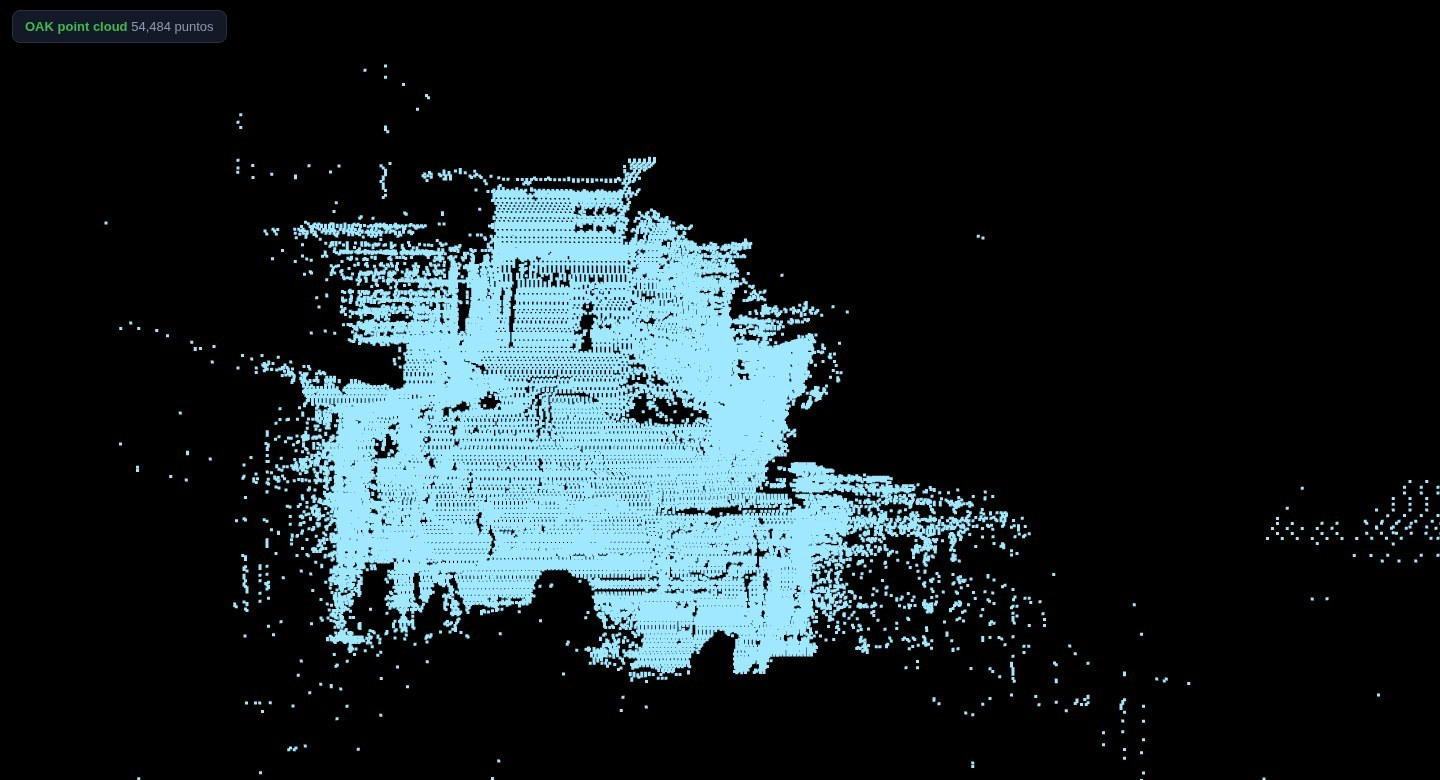
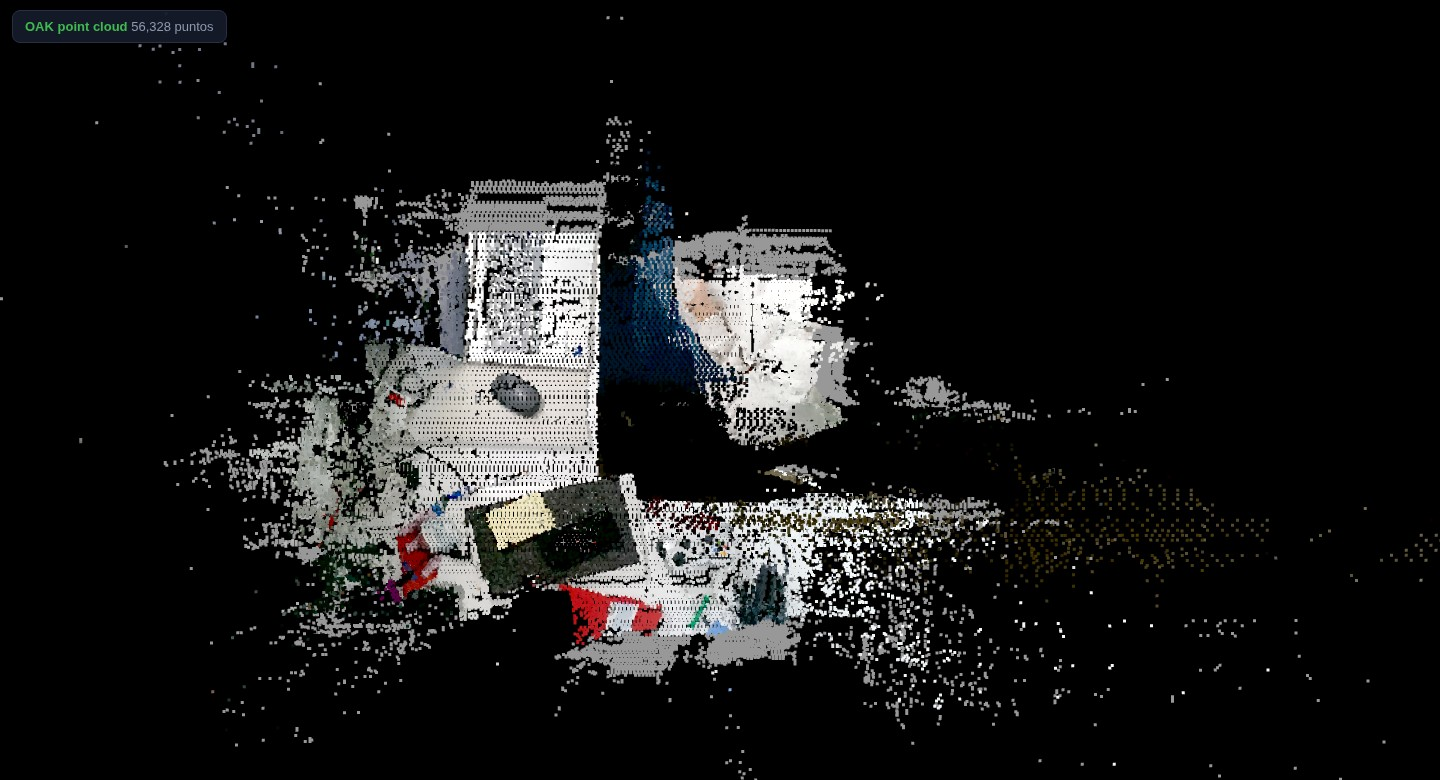
feat(cams): the point cloud now lives in the colour frame, coloured (§10.6)
Step 1 of the perception path: /oak/scene/points carries x,y,z,rgb in scene_color_optical_frame,
so a point and the pixel it came from are the same thing.

Built from the depth camera's K (unchanged), the device's depth->colour extrinsic and the colour
intrinsics at the stream's resolution, then the pixel's BGR goes into the rgb field. The board
homography would only be exact on its own plane, so the cloud uses the extrinsic route and the
homography stays for 2D overlays. Points outside the colour FOV keep their geometry in dim grey
rather than punching holes in the shape.

Two traps fixed on the way: depthai 2.x returns that translation in CENTIMETRES (3.719 -> 37.19 mm,
otherwise the cloud jumps 3.7 m), and the viewer's volume filter has to be applied to the colour
array as well or the colours slide off the points.

The Point Cloud tab reads rgb when the payload carries it and falls back to distance shading for an
uncalibrated unit. Verified on the bench: scene_color_optical_frame, fields at 0/4/8/12, ~2 Hz,
56k points, median range 1.11 m, colours on the objects.

diff --git a/docker/ws/cams/oak_ros_node.py b/docker/ws/cams/oak_ros_node.py
@@ -117,6 +117,34 @@ def create_cloud_xyz32(header, pts_m):
     return msg
 
 
+def create_cloud_xyzrgb(header, pts_m, rgb_u8):
+    """PointCloud2 with the PCL layout x,y,z,rgb (rgb packed into a float32).
+
+    Consumers (rviz, Open3D, open3d-style readers, GraspGen's converters) expect exactly this
+    offset order, so it is built by hand rather than depending on sensor_msgs_py.
+    """
+    msg = PointCloud2()
+    msg.header = header
+    msg.height = 1
+    msg.width = len(pts_m)
+    msg.fields = [
+        PointField(name="x", offset=0, datatype=PointField.FLOAT32, count=1),
+        PointField(name="y", offset=4, datatype=PointField.FLOAT32, count=1),
+        PointField(name="z", offset=8, datatype=PointField.FLOAT32, count=1),
+        PointField(name="rgb", offset=12, datatype=PointField.FLOAT32, count=1),
+    ]
+    msg.is_bigendian = False
+    msg.point_step = 16
+    msg.row_step = msg.point_step * msg.width
+    msg.is_dense = True
+    packed = np.zeros((len(pts_m), 4), dtype=np.float32)
+    packed[:, :3] = np.ascontiguousarray(pts_m, dtype=np.float32)
+    c = np.ascontiguousarray(rgb_u8, dtype=np.uint32)
+    packed[:, 3] = ((c[:, 0] << 16) | (c[:, 1] << 8) | c[:, 2]).view(np.float32)
+    msg.data = array.array("B", packed.astype("<f4").tobytes())
+    return msg
+
+
 def camera_info(fx, fy, cx, cy, w, h, frame_id):
     info = CameraInfo()
     info.width = w
@@ -172,6 +200,8 @@ class OakNode(Node):
                 "device": device,
                 "calib": calib,
                 "k_cache": {},
+                "color_bgr": None,
+                "colour_cache": {},
                 "pcl_last": 0.0,
                 "depth_last": 0.0,
                 "conf_last": 0.0,
@@ -237,6 +267,7 @@ class OakNode(Node):
             conf_frames = s["qconf"].tryGetAll()
             if color_frames:
                 frame = color_frames[-1].getCvFrame()
+                s["color_bgr"] = frame
                 ok, jpg = cv2.imencode(".jpg", frame, [int(cv2.IMWRITE_JPEG_QUALITY), 85])
                 if ok:
                     msg = CompressedImage()
@@ -347,12 +378,65 @@ class OakNode(Node):
             f"cx={k[2]:.2f} cy={k[3]:.2f}")
         return k
 
-    def _publish_cloud(self, s, depth, now):
-        """Host-side unprojection of the depth map.
+    def _colour_model(self, s, cw, ch):
+        """Colour intrinsics at the frame size, plus the depth→colour extrinsic, cached.
 
-        The map is 16UC1 in millimetres — a depth of 1000 is one metre — which is what
-        the stereo pipeline gives when the unit has a usable calibration; the scale env
-        var exists only to correct a unit whose depth comes out proportional."""
+        The cloud is built on the depth camera's geometry, but colour has to come from a pixel
+        of the *colour* camera: the device's own extrinsic is the exact relation between the two
+        sensors, so the board homography of §10.4 (a plane approximation) is not needed here.
+        Returns None when the unit has no usable calibration, in which case the cloud stays
+        uncoloured in the depth frame instead of being coloured wrongly.
+        """
+        key = (cw, ch)
+        cache = s["colour_cache"]
+        if key in cache:
+            return cache[key]
+        model = None
+        calib = s.get("calib")
+        if calib is not None:
+            try:
+                raw = calib.getCameraIntrinsics(dai.CameraBoardSocket.RGB, cw, ch)
+                k = (float(raw[0][0]), float(raw[1][1]), float(raw[0][2]), float(raw[1][2]))
+            except Exception:  # noqa: BLE001
+                k = None
+            if k and k[0] > 0:
+                try:
+                    m = np.array(calib.getCameraExtrinsics(dai.CameraBoardSocket.RIGHT,
+                                                           dai.CameraBoardSocket.RGB),
+                                 dtype=float)
+                except Exception:  # noqa: BLE001
+                    m = None
+                if m is not None:
+                    if m.shape == (4, 4):
+                        R, t = m[:3, :3], m[:3, 3]
+                    elif m.shape == (3, 4):
+                        R, t = m[:, :3], m[:, 3]
+                    else:
+                        R = t = None
+                    if R is not None:
+                        # depthai 2.x returns this translation in CENTIMETRES (the legacy
+                        # convention); the cloud is in metres, so 3.719 becomes 37.19 mm.
+                        t = np.asarray(t, dtype=float) * 0.01
+                        model = (k, R, t)
+                        self.get_logger().info(
+                            f"{s['ns']}: cloud colour model {cw}x{ch} fx={k[0]:.2f} "
+                            f"cx={k[2]:.2f} | depth→colour t=({t[0] * 1000:.1f}, "
+                            f"{t[1] * 1000:.1f}, {t[2] * 1000:.1f}) mm")
+        cache[key] = model
+        return model
+
+    def _publish_cloud(self, s, depth, now):
+        """Unproject the depth map, then colour every point from the colour camera.
+
+        Geometry is built on the depth camera's own K (the map arrives in the right camera's
+        geometry), moved into the colour camera's frame with the device extrinsic, and
+        projected with the colour K to fetch the pixel. The result is published in the *colour*
+        optical frame with the PCL `x, y, z, rgb` layout, so a cloud point and its pixel are the
+        same thing — the step that turns "the camera sees" into "the object is there".
+
+        Points that fall outside the colour image keep their geometry but are coloured dim grey,
+        because dropping them would leave holes in the shape a grasp is aimed at.
+        """
         ns = s["ns"]
         env = f"OAK_{ns.upper()}"
         h, w = depth.shape
@@ -367,12 +451,36 @@ class OakNode(Node):
         x = (uu - cx) * z / fx
         y = (vv - cy) * z / fy
         pts = np.stack([x[valid], y[valid], z[valid]], axis=1)
-        if len(pts):
-            header = Header()
-            header.stamp = self.get_clock().now().to_msg()
+        if not len(pts):
+            return
+
+        header = Header()
+        header.stamp = self.get_clock().now().to_msg()
+        colour = s.get("color_bgr")
+        model = self._colour_model(s, colour.shape[1], colour.shape[0]) if colour is not None else None
+        if model is None:
             header.frame_id = f"{ns}_right_optical_frame"
             self._pub(f"/oak/{ns}/points", PointCloud2).publish(create_cloud_xyz32(header, pts))
             s["pcl_last"] = now
+            return
+
+        (kfx, kfy, kcx, kcy), R, t = model
+        p = pts @ R.T + t
+        zc = p[:, 2]
+        rgb = np.full((len(p), 3), 80, dtype=np.uint8)
+        front = zc > 0.05
+        if front.any():
+            u = kfx * p[front, 0] / zc[front] + kcx
+            v = kfy * p[front, 1] / zc[front] + kcy
+            ch, cw = colour.shape[:2]
+            inside = (u >= 0) & (u < cw - 1) & (v >= 0) & (v < ch - 1)
+            idx = np.flatnonzero(front)[inside]
+            if len(idx):
+                bgr = colour[v[inside].astype(np.int32), u[inside].astype(np.int32)]
+                rgb[idx] = bgr[:, ::-1]          # BGR -> RGB
+        header.frame_id = f"{ns}_color_optical_frame"
+        self._pub(f"/oak/{ns}/points", PointCloud2).publish(create_cloud_xyzrgb(header, p, rgb))
+        s["pcl_last"] = now
 
     def _pub(self, topic, cls):
         pub = getattr(self, "_pubcache", None)

diff --git a/docker/ws/cams/cloud_view.py b/docker/ws/cams/cloud_view.py
@@ -5,7 +5,7 @@ a laptop. This serves the newest cloud as a compact binary over plain HTTP and a
 three.js page that renders it:
 
     http://<jetson-ip>:8091/          interactive 3D view
-    http://<jetson-ip>:8091/cloud.bin  uint32 count + float32 x,y,z per point
+    http://<jetson-ip>:8091/cloud.bin  uint32 count + float32 x,y,z + uint8 r,g,b per point
 
 The cloud is downsampled with a stride (default: keep every 3rd point) so a
 720p cloud stays interactive over WiFi. Colour is derived from distance in the
@@ -51,16 +51,32 @@ class CloudViewer(Node):
         usable = (len(raw) // step) * step
         pts = np.frombuffer(raw[:usable].tobytes(), dtype=np.float32)
         per = step // 4
-        pts = pts.reshape(-1, per)[:, :3]
-        pts = pts[::STRIDE]
-        pts = pts[np.isfinite(pts).all(axis=1)]
+        arr = pts.reshape(-1, per)
+        pts = arr[:, :3]
+        has_rgb = "rgb" in fields and per >= 4
+        rgb = None
+        if has_rgb:
+            packed = np.ascontiguousarray(arr[:, fields["rgb"] // 4]).view(np.uint32)
+            rgb = np.stack([(packed >> 16) & 0xFF, (packed >> 8) & 0xFF, packed & 0xFF],
+                           axis=1).astype(np.uint8)
+        keep = np.isfinite(pts).all(axis=1)
+        pts = pts[keep]
+        if rgb is not None:
+            rgb = rgb[keep]
         # keep the working volume only: the OAK frame is optical (z forward), and the
         # far/noisy points stretch the bounding box until the cloud renders as dust
-        pts = pts[(pts[:, 2] > 0.12) & (pts[:, 2] < 2.5)
-                  & (np.abs(pts[:, 0]) < 1.5) & (np.abs(pts[:, 1]) < 1.5)]
+        vol = ((pts[:, 2] > 0.12) & (pts[:, 2] < 2.5)
+               & (np.abs(pts[:, 0]) < 1.5) & (np.abs(pts[:, 1]) < 1.5))
+        pts = pts[vol]
+        if rgb is not None:                 # same mask on both, or the colours slide off
+            rgb = rgb[vol]
         if len(pts) == 0:
             return
-        payload = struct.pack("<I", len(pts)) + pts.astype("<f4").tobytes()
+        pts = pts[::STRIDE]
+        if rgb is not None:
+            rgb = rgb[::STRIDE]
+        payload = (struct.pack("<I", len(pts)) + pts.astype("<f4").tobytes()
+                   + (rgb.tobytes() if rgb is not None else b""))
         with _lock:
             _state.update(bin=payload, n=len(pts), stamp=time.time())
             _count["n"] += 1
@@ -122,7 +138,8 @@ function makeGeom(n){
   geom = new THREE.BufferGeometry();
   geom.setAttribute('position', new THREE.BufferAttribute(new Float32Array(n*3), 3));
   geom.setAttribute('color', new THREE.BufferAttribute(new Float32Array(n*3), 3));
-  const mat = new THREE.PointsMaterial({size:3.0, color:0x9fe8ff, sizeAttenuation:false});
+  const mat = new THREE.PointsMaterial({size:3.0, color:0xffffff, vertexColors:true,
+                                        sizeAttenuation:false});
   if (pts) scene.remove(pts);
   pts = new THREE.Points(geom, mat);
   scene.add(pts);
@@ -136,26 +153,36 @@ async function tick(){
       const n = dv.getUint32(0, true);
       if (!geom || geom.attributes.position.count !== n) makeGeom(n);
       const pos = geom.attributes.position.array, col = geom.attributes.color.array;
-      // two passes: read positions, then colour by distance from the cloud centre
-      // normalised to this frame, so contrast does not depend on scale
+      const hasRGB = buf.byteLength >= 4 + n*15;      // xyz float32 + rgb uint8 per point
       let cx=0, cy=0, cz=0;
       for (let i=0;i<n;i++){
-        const x = dv.getFloat32(4+i*12, true), y = dv.getFloat32(8+i*12, true), z = dv.getFloat32(12+i*12, true);
+        const o = 4 + i*12;
+        const x = dv.getFloat32(o, true), y = dv.getFloat32(o+4, true), z = dv.getFloat32(o+8, true);
         pos[i*3]=x; pos[i*3+1]=y; pos[i*3+2]=z; cx+=x; cy+=y; cz+=z;
       }
       cx/=n; cy/=n; cz/=n;
-      let dmin=1e9, dmax=1e-9;
-      for (let i=0;i<n;i++){
-        const d = Math.hypot(pos[i*3]-cx, pos[i*3+1]-cy, pos[i*3+2]-cz);
-        if (d<dmin) dmin=d; if (d>dmax) dmax=d;
-      }
-      const span = Math.max(1e-3, dmax-dmin);
-      for (let i=0;i<n;i++){
-        const t = (Math.hypot(pos[i*3]-cx, pos[i*3+1]-cy, pos[i*3+2]-cz) - dmin)/span;
-        // bright enough to read against the near-black background: pale cyan -> warm
-        col[i*3]   = 0.55 + 0.45*t;
-        col[i*3+1] = 0.88 + 0.12*Math.sin(t*Math.PI);
-        col[i*3+2] = 1.00 - 0.55*t;
+      if (hasRGB){
+        // the pixel's own colour, straight from the colour camera
+        const base = 4 + n*12;
+        for (let i=0;i<n;i++){
+          col[i*3]   = dv.getUint8(base + i*3)     / 255;
+          col[i*3+1] = dv.getUint8(base + i*3 + 1) / 255;
+          col[i*3+2] = dv.getUint8(base + i*3 + 2) / 255;
+        }
+      } else {
+        // fallback for an uncalibrated unit: distance shading, cyan -> warm
+        let dmin=1e9, dmax=1e-9;
+        for (let i=0;i<n;i++){
+          const d = Math.hypot(pos[i*3]-cx, pos[i*3+1]-cy, pos[i*3+2]-cz);
+          if (d<dmin) dmin=d; if (d>dmax) dmax=d;
+        }
+        const span = Math.max(1e-3, dmax-dmin);
+        for (let i=0;i<n;i++){
+          const t = (Math.hypot(pos[i*3]-cx, pos[i*3+1]-cy, pos[i*3+2]-cz) - dmin)/span;
+          col[i*3]   = 0.55 + 0.45*t;
+          col[i*3+1] = 0.88 + 0.12*Math.sin(t*Math.PI);
+          col[i*3+2] = 1.00 - 0.55*t;
+        }
       }
       geom.attributes.position.needsUpdate = true;
       geom.attributes.color.needsUpdate = true;

diff --git a/README.md b/README.md
@@ -45,6 +45,7 @@ A Windows 11 Home PC on the same LAN provides visualization (noVNC in Chromium),
   - [10.3 Hand-eye — where the camera sits in the arm's frame](#103-hand-eye--where-the-camera-sits-in-the-arms-frame)
   - [10.4 Depth scale, and colour to depth registration](#104-depth-scale-and-colour-to-depth-registration)
   - [10.5 The gripper camera — is it in focus at 10-15 cm?](#105-the-gripper-camera--is-it-in-focus-at-10-15-cm)
+  - [10.6 The cloud in the colour frame, coloured](#106-the-cloud-in-the-colour-frame-coloured)
 - **[11. Node and topic reference](#11-node-and-topic-reference)**
   - [11.1 so100-arm — the arm](#111-so100-arm--the-arm)
   - [11.2 so100-cams — the cameras](#112-so100-cams--the-cameras)
@@ -98,9 +99,10 @@ seen working on this hardware, so trust it over the plan when they disagree.
 - [x] Point cloud: unprojected with the depth camera's own intrinsics, extended disparity (range from ~0.65 m down to ~0.33 m), left/right check; scale measured at 0.315 m against PnP geometry — depth reads **+3.0%**, spread ±1% over 100k board pixels
 - [x] Colour ↔ depth **registration**: homography from the board, 48 correspondences, 0.69 px rms — `docs/calibration/color_to_depth.yaml`
 
+- [x] **Point cloud in the colour frame, coloured** — `/oak/scene/points` carries `x, y, z, rgb` in `scene_color_optical_frame`, built from the device's depth→colour extrinsic and the colour intrinsics (§10.6). Verified on the bench 2026-11-11: 56k points at ~2 Hz, colours on the objects. Unblocks object segmentation in 3D, GraspGen targets and VLM pointing
+
 ### 2.3 Next
 
-- [ ] **Point cloud in the colour frame, coloured** — publish `/oak/scene/points` already transformed into the colour optical frame and carrying the pixel's RGB, so a cloud point and its pixel are the same thing. The homography that makes this possible is solved and unused; this is the step that turns "the camera sees" into "the object is *there*", and it is what lets a grasp be aimed at a segmented object instead of a hand-picked 3D guess. Unblocks: object segmentation in 3D, GraspGen targets, VLM pointing.
 - [ ] **The arm's silhouette in the cloud** — the SO-101's black plastic returns no depth, so the arm is a hole at the near edge of the cloud instead of a body (visible as the dark blob at the bottom of the Point Cloud tab). Project the URDF links through the same intrinsics the cloud is unprojected with — the transform is invertible, so this is a mask, not a second pipeline — and either mark the missing points or draw the model over the cloud. It is what lets the operator see where the arm sits relative to the objects, and the same mask is what a grasp planner needs to reject points that are the robot and not the scene.
 - [ ] **Depth scale, second distance** — repeat the PnP-vs-depth check at ~0.40 m to tell a proportional error from a fixed offset, then decide whether `OAK_SCENE_DEPTH_SCALE` becomes 0.971 or stays 1.0
 - [ ] **IK node (ADR-0009)** — SE(3) pose to joint angles, with the URDF limits; the missing middle between "the gripper is here" (FK, done) and "move the gripper there". Unblocks GraspGen, the VLM interface and autonomous episodes
@@ -376,7 +378,7 @@ One page at **http://<xavier-ip>/** with five tabs, served by the `so100-web` co
 |---|---|---|
 | **Terminal** | http://192.168.1.50:7681 | a writable shell **inside the web container**, with the ROS2 environment sourced — the first tab, because it is the cheap one |
 | **Stereo Cam & Depth** | http://192.168.1.50:8090/stereo | the two **rectified** mono views (LEFT · CAM_B, RIGHT · CAM_C) — exactly the images the depth map is computed from, each with its own rate — and, below them, the **depth map** (0–2 m, turbo colormap) |
-| **Point Cloud** | http://192.168.1.50:8091/ | the `/oak/scene/points` cloud in 3D (three.js): opens as a **zenithal view of the arm and the bench** — straight down the camera's optical axis — then drag to orbit, wheel to zoom, colour = distance from the cloud centre |
+| **Point Cloud** | http://192.168.1.50:8091/ | the `/oak/scene/points` cloud in 3D (three.js): opens as a **zenithal view of the arm and the bench** — straight down the camera's optical axis — then drag to orbit, wheel to zoom, **each point in the colour the camera saw there** |
 | **Graph** | http://192.168.1.50:6081/vnc.html | rqt_graph: every node/topic in the cell and how they connect |
 | **RViz** | http://192.168.1.50:6080/vnc.html | RViz2: the SO-101 arm with its live pose, the grid, TF and the colour/confidence panels. **Started on demand** — see below |
 
@@ -723,8 +725,8 @@ repeated at ~0.40 m (§2.3).
 
 **Registration.** Colour and depth sensors are 37 mm apart, so a pixel is not a pixel. The
 homography from the board — 48 correspondences, 0.69 px rms — lives in
-`docs/calibration/color_to_depth.yaml`. It is solved and **not used yet**: the cloud is still
-uncoloured, which is the first item in §2.3.
+`docs/calibration/color_to_depth.yaml`. It stays the right tool for 2D overlays (drawing a depth
+contour on the colour image); the cloud itself is coloured by a different, exact route — §10.6.
 
 ### 10.5 The gripper camera — is it in focus at 10-15 cm?
 
@@ -805,6 +807,40 @@ not because the exposure changed.
   wrist distance). That is why the 10-15 cm requirement is written as a *focus* requirement here,
   not as a depth range — and why `tools/camfocus.py` runs before the camera goes on the arm.
 
+### 10.6 The cloud in the colour frame, coloured
+
+`/oak/scene/points` is now published **in the colour camera's optical frame** as `x, y, z, rgb`
+(PCL layout, `rgb` packed into a float32 at offset 12). A point and the pixel it came from are the
+same thing, which is what a grasp aimed at a segmented object needs.
+
+How it is built, and why not with the homography of §10.4:
+
+1. The depth map arrives in the **right camera's** geometry, so the point is unprojected with that
+   camera's intrinsics (`fx 833.00 …`), exactly as before.
+2. The device's own **extrinsic** depth→colour moves it into the colour frame: `t = (37.2, 0.1,
+   -3.2) mm` on this unit — the two sensors are that far apart, which is why a pixel is not a pixel
+   (§10.4).
+3. The colour **intrinsics** at the colour stream's resolution (`fx 1545.36 cx 948.02` at
+   1920x1080) project the point to a pixel, and the pixel's BGR is written into `rgb`.
+
+The board homography would also map depth pixels to colour pixels, but only as a plane
+approximation: it is exact for something lying on the plane the board was on and drifts for
+anything in front of it. The extrinsic + intrinsics route is exact everywhere, so that is what the
+cloud uses; the homography stays for 2D work.
+
+**One trap worth writing down**: `calib.getCameraExtrinsics()` in depthai 2.x returns the
+translation in **centimetres**, while the cloud is in metres. Used as-is it moved the whole cloud
+3.7 m sideways — the log line `depth→colour t=(37.2, 0.1, -3.2) mm` after the ×0.01 is the check.
+
+Points that project **outside** the colour image keep their geometry but are coloured dim grey
+(80, 80, 80): dropping them would leave holes exactly where the depth camera sees more than the
+colour one, and a grasp is aimed at the shape. On a unit with no usable calibration the node falls
+back to the old uncoloured `xyz` cloud in the depth frame rather than colouring it wrongly.
+
+Verified 2026-11-11 on the bench: `frame_id: scene_color_optical_frame`, fields
+`x,y,z,rgb` at offsets 0/4/8/12, ~2 Hz, 56k points, median range 1.11 m, and the colours land on
+the objects in the Point Cloud tab (counters, sticky notes, the red part on the bench).
+
 ## 11. Node and topic reference
 
 Each container is one job and publishes a small, fixed set of topics. This is the reference for
@@ -845,7 +881,7 @@ One node (/oak_cams), one depthai pipeline per device:
 | /oak/scene/confidence | out | stereo confidence map, 8UC1 (per-pixel depth certainty) |
 | /oak/scene/color/camera_info, /oak/scene/depth/camera_info | out | intrinsics, straight from the device's own calibration at the resolution each stream runs at |
 | /oak/scene/imu | out | accel + gyro + rotation vector — only on units that carry an IMU (this POE unit has none) |
-| /oak/scene/points | out | point cloud (XYZ, metres) unprojected with the **depth camera's own calibration**, asked from the device at the resolution the map arrives at (`fx 833.00 fy 833.00 cx 639.23 cy 356.87` at 1280x720). No placeholders: the env vars are only a fallback for a unit with none |
+| /oak/scene/points | out | point cloud in the **colour optical frame**, `x, y, z, rgb` (PCL layout): unprojected with the depth camera's own K (`fx 833.00 fy 833.00 cx 639.23 cy 356.87` at 1280x720), moved into the colour frame with the device extrinsic and coloured from the colour pixel it projects onto (§10.6) |
 | /oak/gripper/* | — | **unused**: the node would publish the same set for a second OAK, but the wrist camera is a USB webcam on its own UVC node (ADR-0022) |
 
 It also broadcasts /tf_static with the camera frame offsets. Those are still nominal (the OAK's own extrinsics, not the hand-eye result), which is why the cloud is meaningful in the camera frame and not yet in `base`.
